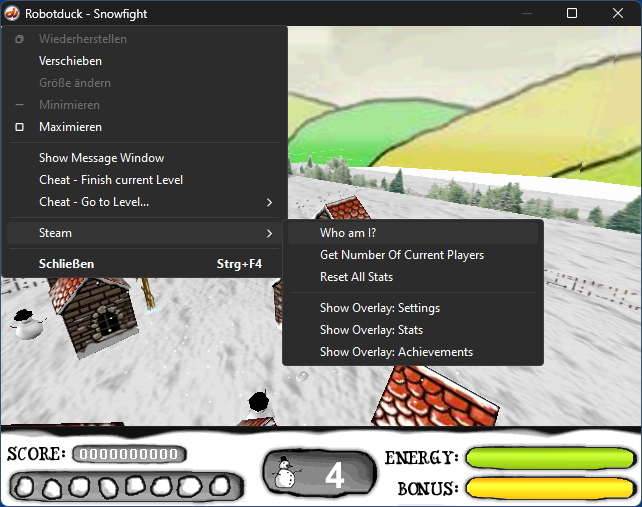
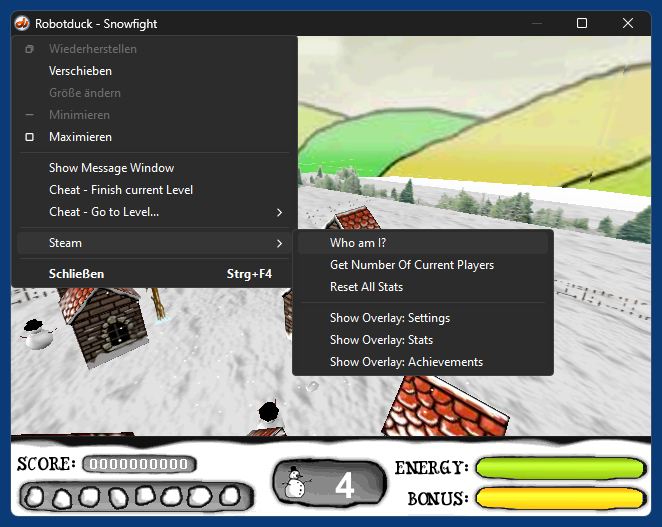
updated README.md

diff --git a/README.md b/README.md
@@ -50,6 +50,9 @@ ISteamUtils_GetIPCountry object me
 *Director 11.5 demo*  
 ![Director 11.5 demo](screenshots/demo.png)
 
+*Shockwave3D game with integrated Steam overlay*  
+![Shockwave3D game with Steam overlay](screenshots/demo_snowfight_overlay2.png)
+
 ## Compiling
 
 Compiling the xtra requires MS Visual Studio 2017 or later, the free community edition is of course fine.
